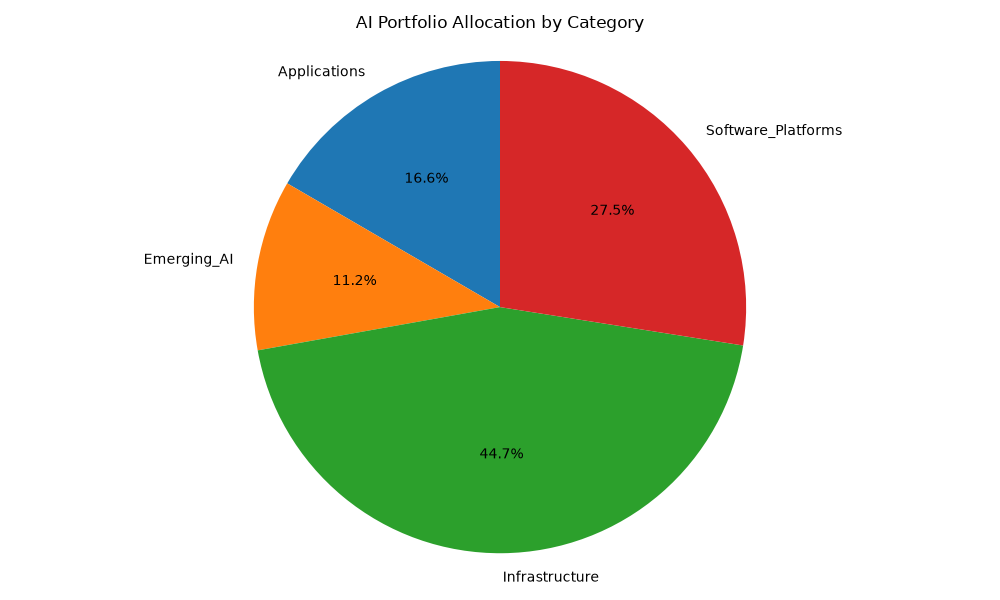
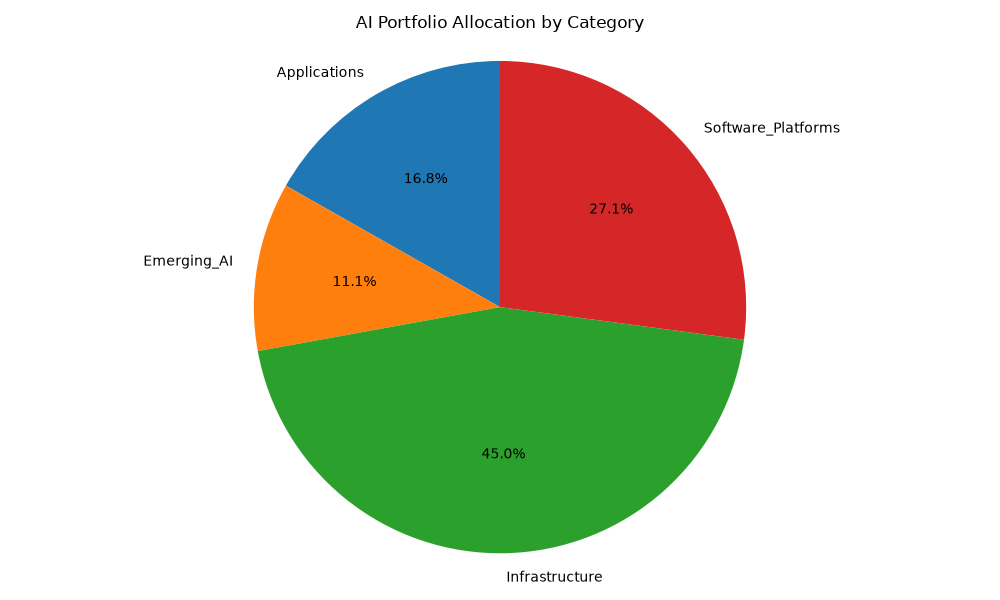
Auto-update AI tracker dashboard

diff --git a/docs/ai.html b/docs/ai.html
@@ -33,14 +33,14 @@
             
             <div class="dashboard-section">
                 <h2>Portfolio Summary</h2>
-                <p>Last Updated: 2026-09-30 04:13:43</p>
-                <p>Total Portfolio Value: <strong>$226,034.80</strong> | 
+                <p>Last Updated: 2026-10-01 04:26:02</p>
+                <p>Total Portfolio Value: <strong>$228,567.35</strong> | 
                    Overall Performance: <strong class="positive">
-                   +5.18%</strong></p>
+                   +7.69%</strong></p>
                 
                 <div class="insights">
                     <h3>Key Insights</h3>
-                    <ul><li>Portfolio value: $226,034.80, Performance: +5.18%</li><li>Top performers: META (+25.13%), TSM (+9.34%), ASML (+4.45%)</li><li>Underperformers: CRM (-11.60%), TSLA (-2.85%), SNOW (-1.00%)</li><li>Best category: Applications (+11.14%), 16.6% of portfolio</li><li>AI high potential: NVDA (AI score: 10.0, 3m: +17.16%), MSFT (AI score: 10.0, 3m: +31.92%)</li></ul>
+                    <ul><li>Portfolio value: $228,567.35, Performance: +7.69%</li><li>Top performers: META (+27.80%), TSM (+10.67%), ASML (+10.16%)</li><li>Underperformers: CRM (-12.55%), TSLA (-0.91%), MSFT (+1.58%)</li><li>Best category: Applications (+13.44%), 16.8% of portfolio</li><li>AI high potential: NVDA (AI score: 10.0, 3m: +15.51%), PLTR (AI score: 10.0, 3m: +39.15%)</li></ul>
                 </div>
             </div>
             
@@ -62,35 +62,35 @@
   </thead>
   <tbody>
     <tr>
-      <td>TSM</td>
-      <td>Taiwan Semiconductor Manufactur</td>
-      <td>100</td>
-      <td>$452.88</td>
-      <td>$45,288.00</td>
-      <td>+9.34%</td>
-      <td>+0.19%</td>
-      <td>Infrastructure</td>
-      <td>Asia</td>
-    </tr>
-    <tr>
       <td>ASML</td>
       <td>ASML Holding N.V. - New York Re</td>
       <td>25</td>
-      <td>$1,771.41</td>
-      <td>$44,285.25</td>
-      <td>+4.45%</td>
-      <td>+1.35%</td>
+      <td>$1,834.39</td>
+      <td>$45,859.75</td>
+      <td>+10.16%</td>
+      <td>+5.15%</td>
       <td>Infrastructure</td>
       <td>Europe</td>
+    </tr>
+    <tr>
+      <td>TSM</td>
+      <td>Taiwan Semiconductor Manufactur</td>
+      <td>100</td>
+      <td>$456.94</td>
+      <td>$45,694.00</td>
+      <td>+10.67%</td>
+      <td>+2.32%</td>
+      <td>Infrastructure</td>
+      <td>Asia</td>
     </tr>
     <tr>
       <td>MSFT</td>
       <td>Microsoft Corporation</td>
       <td>75</td>
-      <td>$509.22</td>
-      <td>$38,191.50</td>
-      <td>+0.38%</td>
-      <td>+2.25%</td>
+      <td>$508.96</td>
+      <td>$38,172.00</td>
+      <td>+1.58%</td>
+      <td>+1.67%</td>
       <td>Software_Platforms</td>
       <td>US</td>
     </tr>
@@ -98,10 +98,10 @@
       <td>META</td>
       <td>Meta Platforms, Inc.</td>
       <td>40</td>
-      <td>$715.62</td>
-      <td>$28,624.80</td>
-      <td>+25.13%</td>
-      <td>-2.85%</td>
+      <td>$738.79</td>
+      <td>$29,551.60</td>
+      <td>+27.80%</td>
+      <td>-0.71%</td>
       <td>Applications</td>
       <td>US</td>
     </tr>
@@ -109,10 +109,10 @@
       <td>PLTR</td>
       <td>Palantir Technologies Inc.</td>
       <td>100</td>
-      <td>$187.48</td>
-      <td>$18,748.00</td>
-      <td>+0.59%</td>
-      <td>+1.35%</td>
+      <td>$186.97</td>
+      <td>$18,697.00</td>
+      <td>+3.92%</td>
+      <td>-2.51%</td>
       <td>Emerging_AI</td>
       <td>US</td>
     </tr>
@@ -120,10 +120,10 @@
       <td>GOOGL</td>
       <td>Alphabet Inc.</td>
       <td>50</td>
-      <td>$342.75</td>
-      <td>$17,137.50</td>
-      <td>+1.07%</td>
-      <td>-2.39%</td>
+      <td>$340.92</td>
+      <td>$17,046.00</td>
+      <td>+1.83%</td>
+      <td>+0.91%</td>
       <td>Software_Platforms</td>
       <td>US</td>
     </tr>
@@ -131,10 +131,10 @@
       <td>NVDA</td>
       <td>NVIDIA Corporation</td>
       <td>50</td>
-      <td>$228.86</td>
-      <td>$11,443.00</td>
-      <td>+3.78%</td>
-      <td>-0.00%</td>
+      <td>$227.21</td>
+      <td>$11,360.50</td>
+      <td>+4.61%</td>
+      <td>+0.75%</td>
       <td>Infrastructure</td>
       <td>US</td>
     </tr>
@@ -142,10 +142,10 @@
       <td>TSLA</td>
       <td>Tesla, Inc.</td>
       <td>25</td>
-      <td>$357.45</td>
-      <td>$8,936.25</td>
-      <td>-2.85%</td>
-      <td>-5.66%</td>
+      <td>$352.84</td>
+      <td>$8,821.00</td>
+      <td>-0.91%</td>
+      <td>-7.18%</td>
       <td>Applications</td>
       <td>US</td>
     </tr>
@@ -153,10 +153,10 @@
       <td>CRM</td>
       <td>Salesforce, Inc.</td>
       <td>30</td>
-      <td>$227.27</td>
-      <td>$6,818.10</td>
-      <td>-11.60%</td>
-      <td>-2.58%</td>
+      <td>$225.31</td>
+      <td>$6,759.30</td>
+      <td>-12.55%</td>
+      <td>-5.16%</td>
       <td>Software_Platforms</td>
       <td>US</td>
     </tr>
@@ -164,10 +164,10 @@
       <td>SNOW</td>
       <td>Snowflake Inc.</td>
       <td>20</td>
-      <td>$328.12</td>
-      <td>$6,562.40</td>
-      <td>-1.00%</td>
-      <td>-2.52%</td>
+      <td>$330.31</td>
+      <td>$6,606.20</td>
+      <td>+3.29%</td>
+      <td>-1.34%</td>
       <td>Emerging_AI</td>
       <td>US</td>
     </tr>
